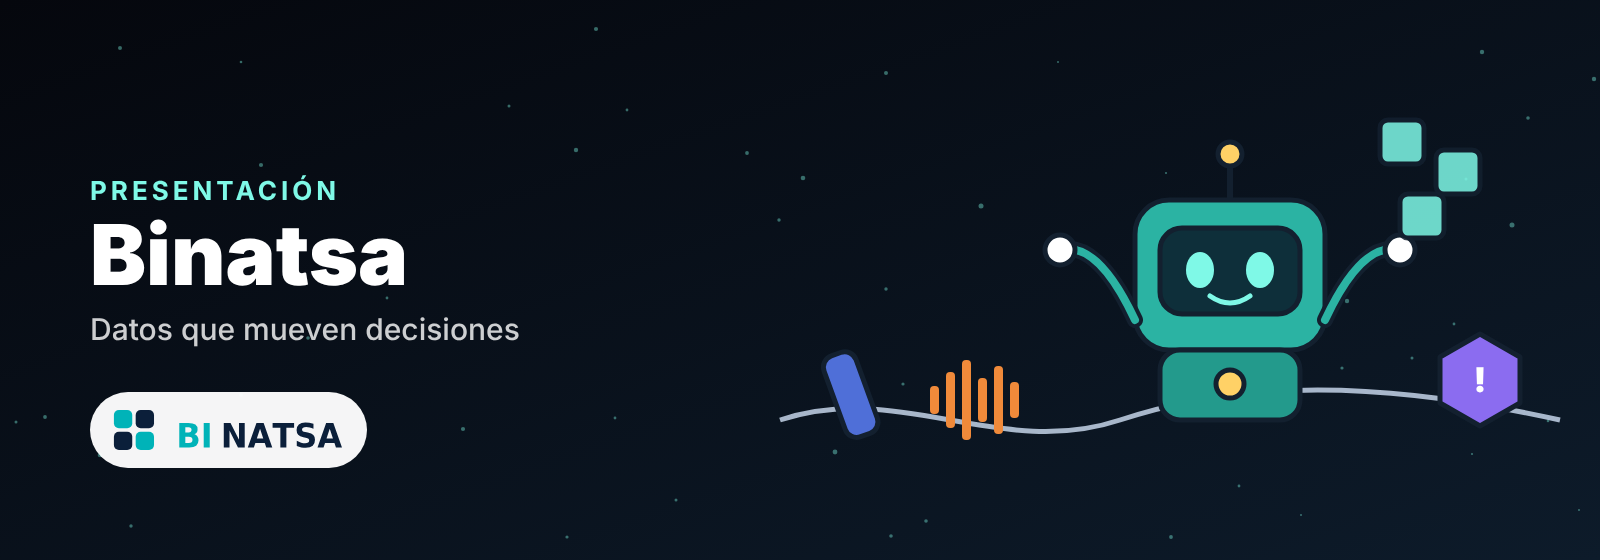
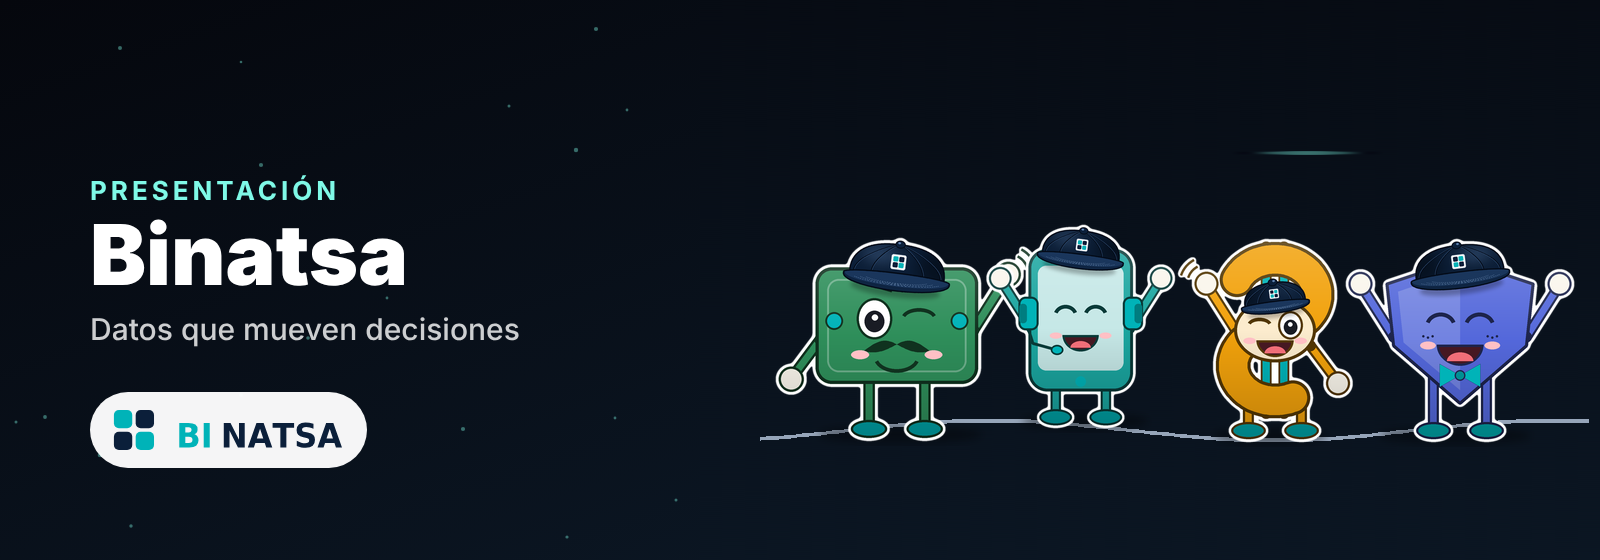
Portadas de BINATSA con la familia de personajes (Don Billetón, Lina, Don Pesos y Sofi)

Changed region(s): [[0.4688, 0.2125, 1.0, 0.7893], [0.75, 0.2429, 0.7812, 0.3036]]

diff --git a/index.html b/index.html
@@ -61,7 +61,7 @@
     { id: 'cobranza', nombre: 'Cobranza unificado', video: 'MANUALES-DE-USO/MANUAL-COBRANZA.mp4', portada: 'portadas/MANUAL-COBRANZA.png' },
     { id: 'total-play', nombre: 'Total Play', video: 'MANUALES-DE-USO/MANUAL-TOTAL-PLAY.mp4', portada: 'portadas/MANUAL-TOTAL-PLAY.png' },
     { id: 'binatsa', nombre: 'BINATSA', video: 'MANUALES-DE-USO/BINATSA.mp4', portada: 'portadas/BINATSA.png', tipo: 'binatsa' },
-    { id: 'binatsa-conoce-al-equipo', nombre: 'Conoce al equipo', video: 'MANUALES-DE-USO/BINATSA-CONOCE-AL-EQUIPO.mp4', portada: 'portadas/BINATSA.png', tipo: 'binatsa' },
+    { id: 'binatsa-conoce-al-equipo', nombre: 'Conoce al equipo', video: 'MANUALES-DE-USO/BINATSA-CONOCE-AL-EQUIPO.mp4', portada: 'portadas/BINATSA-CONOCE-AL-EQUIPO.png', tipo: 'binatsa' },
   ];
 
   const list = document.getElementById('list'), listB = document.getElementById('list-binatsa');
